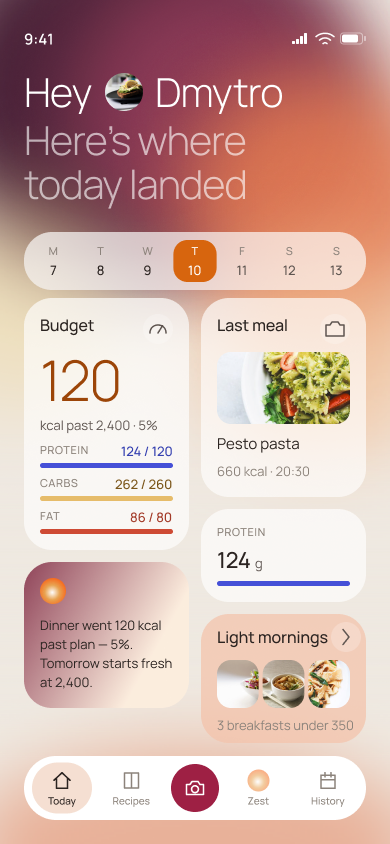
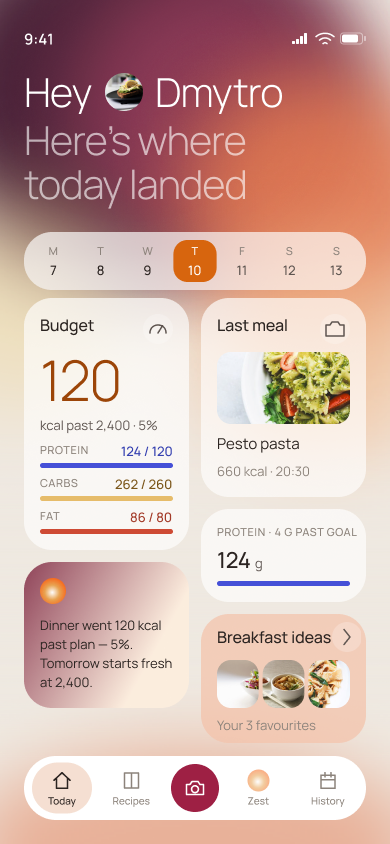
design: close the second review — one coherent afternoon, honest numbers
Today now has a before and an after that agree: 1,056 kcal left with a nudge to log
breakfast, then 540 left with "Added to breakfast · 516 kcal · Undo" — the same state
Recipes, Ask Zest and History already show. E06 says protein is 4 g past the goal; the
salmon trade-off names a change that really closes the 5 g; Secondary buttons look
enabled; no compensating breakfasts after a day over budget; a + marks over-budget days;
planning dinner lands on "It logs when you mark it eaten".

Claude-Session: https://claude.ai/code/session_01FDPnJdAVQFe1ai4QzDTio4

diff --git a/docs/REVIEW-FIXES.md b/docs/REVIEW-FIXES.md
@@ -44,3 +44,19 @@ interview") and listed what must change before a client sees it. Everything on t
   rule is written in the design system.
 - **Onboarding goals, allergies, recipe search, sorting, saved state on cards, cooking
   mode, chat history** — real, but outside the two user stories in the brief.
+
+---
+
+# Second review — 8.7 / 10
+
+The reviewer confirmed the fixes above and listed what was still open. All of it is done.
+
+| Issue | Fix |
+|---|---|
+| E06 showed "Protein to go — 124 g" while the day was already 4 g past the goal | The card reads **Protein · 4 g past goal**, 124 g. |
+| Today did not change after *Add to my day* — the meal was already counted | The story is now one afternoon: **Today (before)** shows 1,344 kcal eaten and **1,056 left** (protein 75 / 120, carbs 172 / 260, fat 38 / 80) with Zest's nudge *"Breakfast isn't logged yet — add it from your photos"*. The breakfast photo is picked from the library on Capture → Analysing → Result (**Breakfast · 09:12**, 516 kcal) → **Today (after)**: 1,860 eaten, **540 left** (96 / 120, 210 / 260, 71 / 80) with *"Added to breakfast · 516 kcal · Undo"*. The after-state is exactly what Recipes, Ask Zest and History already show. |
+| The Miso salmon advice could not be applied — and its maths did not hold (1 tsp of sesame oil is ~2 g fat a serving) | The trade-off now names a change that actually closes the gap: *"100 g of salmon instead of 140 g keeps it inside"* — 40 g less salmon is −83 kcal, −8 g protein, −5 g fat, so the day lands at 80 / 80 g. *Plan for dinner* stays available: the choice is the person's. |
+| *Start cooking* looked disabled | Secondary buttons are white with a 22 % ink edge and a semibold label (new token `action/secondary-edge`). |
+| "Light mornings" after a day over budget read as compensation | The tile is **Breakfast ideas · Your 3 favourites** — nothing to make up. |
+| History relied on colour for over-budget days | Over-budget dates carry a **+**; the legend says "A + marks a day that went over". |
+| Planning vs logging after the button | *Plan for dinner* (Recipe detail, Ask Zest) lands on **Today — dinner planned**: *"It logs when you mark it eaten"*. |

diff --git a/03-screens/README.md b/03-screens/README.md
@@ -1,13 +1,13 @@
 # Key screens
 
-Exported from Figma at 390 × 844 (iPhone 14/15). All eleven are connected in the prototype;
+Exported from Figma at 390 × 844 (iPhone 14/15). All twelve are connected in the prototype;
 the start point is Welcome.
 
 | File | Screen | Kind | What it is for |
 |---|---|---|---|
 | `00-flow-map.png` | Flow map | — | Every screen, every link, the three kinds and their rules |
 | `01-welcome.png` | Welcome | entry | The promise, in one sentence, plus the mark |
-| `02-today.png` | Today | place | The day's budget, the week, the last meal, Zest's read |
+| `02-today.png` | Today | place | Before breakfast is logged: 1,056 kcal left, and Zest's nudge — "Breakfast isn't logged yet" |
 | `03-capture.png` | Capture | flow | Viewfinder — the plate inside the ring; Photo · Barcode · Type it |
 | `04-analysing.png` | Analysing | flow | Items surface one by one, so the AI's work is legible |
 | `05-result.png` | Result | flow | Total, macros, Zest's observation, every portion editable |
@@ -16,7 +16,8 @@ the start point is Welcome.
 | `08-recipes.png` | Recipes | place | Ranked by what is still left today |
 | `09-recipe-detail.png` | Recipe detail | detail | Carries **Why this fits you** — the second user story |
 | `10-history.png` | History | place | Month calendar and what was eaten on the chosen day |
-| `11-today-meal-added.png` | Today — meal added | place | What happens after *Add to my day*: the meal lands, the budget is restated, **Undo** |
+| `11-today-meal-added.png` | Today — meal added | place | After *Add to my day*: the budget moves from 1,056 to 540 kcal left, and a snackbar says so — **Undo** |
+| `12-today-dinner-planned.png` | Today — dinner planned | place | After *Plan for dinner*: planned is not logged — "It logs when you mark it eaten" |
 
 ## How the screens connect
 

diff --git a/README.md b/README.md
@@ -83,7 +83,7 @@ status bar at 0, navigation at 59, bottom bar 24 from the edge.
 |---|---|---|
 | 1 | Branding / stylescapes | Figma page `01 · Branding` — logo exploration, the main stylescape **Stylescape · Zest** (a dense collage built on one idea: the plate, the lens, the orb and the day are all circles), and four supporting 4000 × 1000 stylescapes: **Where it comes from** (the sources: peel, light, colours sampled from a real plate, photography), **Natural light** (the brand), **The plate is data** (the product), **No verdicts** (the voice). Exports in [`01-branding/`](01-branding/) |
 | 2 | Design system | Figma pages `02 · Foundations` and `03 · Components` |
-| 3 | Key screens & flows | Figma page `05 · Flow map` ([`03-screens/00-flow-map.png`](03-screens/00-flow-map.png)) and page `04 · Screens & Prototype` — 11 happy-path screens and 9 edge cases, ~80 prototype links, 10 flows (the full journey + one per edge case). Exports in [`03-screens/`](03-screens/) and [`04-edge-cases/`](04-edge-cases/) |
+| 3 | Key screens & flows | Figma page `05 · Flow map` ([`03-screens/00-flow-map.png`](03-screens/00-flow-map.png)) and page `04 · Screens & Prototype` — 12 happy-path screens and 9 edge cases, ~80 prototype links, 10 flows (the full journey + one per edge case). Exports in [`03-screens/`](03-screens/) and [`04-edge-cases/`](04-edge-cases/) |
 
 See [`links.md`](links.md) for the Figma link and the video walkthrough, [`docs/REVIEW-FIXES.md`](docs/REVIEW-FIXES.md) for what changed after review; the video script is in [`docs/VIDEO-SCRIPT.md`](docs/VIDEO-SCRIPT.md).
 

diff --git a/docs/PROGRESS.md b/docs/PROGRESS.md
@@ -117,6 +117,12 @@ A reviewer scored the static screens 7.8 / 10. Every critical and high-severity 
 fixed — see `docs/REVIEW-FIXES.md`. New: S11 · Today — meal added, E09 · Camera access is
 off, a main collage stylescape, motion on every edge case.
 
+## Round 5 — second review (8.7 / 10) fixed (11 Sept)
+
+Today before/after made one coherent afternoon (1,056 → 540), E06 protein wording, honest
+salmon adjustment, enabled-looking Secondary, no compensating breakfasts, a + on over-budget
+days, Today — dinner planned. S09b (adjusted recipe) was removed by Sofia on purpose.
+
 ## Still to do
 
 Figma file shared as "Anyone with the link · can view" and renamed to `project`; file and

diff --git a/links.md b/links.md
@@ -18,5 +18,5 @@ edge case (`Edge · …`).
 - `01 · Branding` — logo exploration, the main stylescape and four supporting stylescapes
 - `02 · Foundations` — colour, the bloom, type, spacing
 - `03 · Components` — the component library
-- `04 · Screens & Prototype` — 11 screens + 9 edge cases, connected; 10 flows in Present mode
+- `04 · Screens & Prototype` — 12 screens + 9 edge cases, connected; 10 flows in Present mode
 - `05 · Flow map` — how the screens connect
